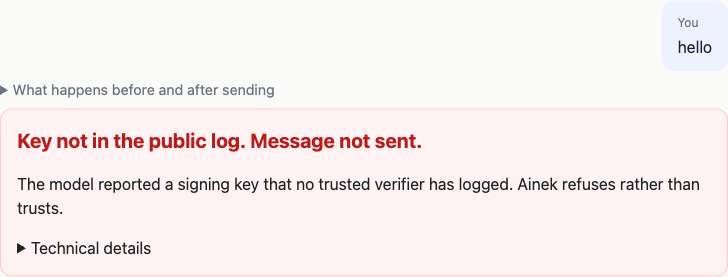
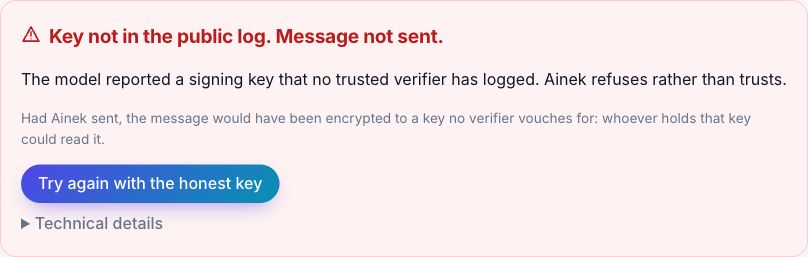
docs: re-shoot the README screenshots on the live log
Same four frames, new design, live key log with entry #3 (the
provider's second deployment); the auditor sample still matches
entry #0.

diff --git a/README.md b/README.md
@@ -3,8 +3,8 @@
 > **Status:** NEAR Hackathon submission (Nov 1–14, 2026). Tracks: Privacy & Private AI, AI Security & Defense,
 > Open Innovation, Social Money. Testnet only. Not audited. See [What we do not claim](#what-we-do-not-claim).
 >
-> **Done (Nov 4):** Tier 1 client, proof package, offline replay, auditor page; key-log contract live on testnet with entry #0.
-> **In progress:** `commit_proof`, the verifier daemon, Tier 2 (agent + policy in TDX).
+> **Done (Nov 5):** Tier 1 client, proof package, offline replay, auditor page; key-log contract v2 live on testnet with `commit_proof`; verifier daemon wrote its first entry (#3).
+> **In progress:** the verifier daemon as a hosted service (today it ran once, by hand), Tier 2 (agent + policy in TDX).
 
 Ainek is a chat with a private model plus a proof you can check yourself. Before anything is sent, the model's signing key is
 checked against a **public, append-only key log in a NEAR contract** that verifiers write to (today: one verifier, ours); the
@@ -28,10 +28,12 @@ measurements to an approved allowlist"; Brave, built on NEAR AI, wrote on Oct 15
   A verifier logs a key only after checking the Intel TDX quote and the NVIDIA GPU evidence, and the client re-verifies the
   evidence itself as well, so the log is a second opinion, not the only one. If two trusted verifiers disagree on a model,
   you see a split view, not an average. Today: one verifier, ours; entry #0 was logged by hand from a report our code
-  verified with the SDK (its NVIDIA verdict hash was not recorded); the daemon is in progress.
+  verified with the SDK); entries #1 and #2 are re-logs of that same recording by a stopgap script (same nonce and report
+  hash); entry #3 is the first one written by the verifier daemon from a fresh attestation. No entry records the NVIDIA
+  verdict hash yet (the SDK's GPU verifier does not return it).
 - **Did this answer come from there?** The enclave signs `sha256(request)` and `sha256(response)`. Ainek keeps the exact
-  bytes, recomputes both hashes and checks the signature against the logged key. A salted hash of the proof will be committed
-  to NEAR (until `commit_proof` is deployed the commit stays in this browser). The salt and your copy of the exchange live
+  bytes, recomputes both hashes and checks the signature against the logged key. A salted hash of the proof is committed
+  to NEAR by your wallet (`commit_proof`, from storage your account prepays); until you connect one it stays in this browser. The salt and your copy of the exchange live
   only in this browser; disclosing to an auditor hands over one proof, its salt and the ciphertext bytes, never the plaintext.
 - **Did the agent do only what it was allowed to?** (Tier 2, in progress; a cap-check spike of the job exists.) The policy
   (whitelist, caps, approval threshold) is meant to run in an OutLayer job on Intel TDX that signs the decision with a key
@@ -50,6 +52,10 @@ measurements to an approved allowlist"; Brave, built on NEAR AI, wrote on Oct 15
 | ![The proof card: model, hardware, key in the public log, hashes, E2EE, on NEAR](docs/screenshots/proof-card.png) | ![Red card: key not in the public log, message not sent](docs/screenshots/refused.png) |
 | The public key log (`/log`) | A disclosure checked by an auditor (`/auditor`) |
 | ![The public key log page](docs/screenshots/log.png) | ![The auditor verdict card](docs/screenshots/auditor.png) |
+
+The card's compose hash is the one attested for this reply; it is shown, not compared with the matched entry (#3, whose
+compose differs: the provider answers from two deployments with the same signing key, and both composes are in the log).
+See "What we do not claim".
 
 ## How NEAR is used
 
@@ -102,7 +108,7 @@ pnpm -F web dev                  # keeps running, use a second terminal: http://
 
 With `pnpm -F web dev` running, at `http://localhost:3000`:
 
-1. **See the log:** `/log` → the live log for `z-ai/glm-5.3-flash` and the trust set and quorum the client applies (today: entries by `ainek-dev-dastan.testnet` on `ainek-log-dastan.testnet`). The client trusts entries no older than 24 h: when there is no fresh entry `/log` says so ("No entry younger than 24 hours"), and the chat then refuses by design. Until the verifier daemon runs, the log is refreshed by hand.
+1. **See the log:** `/log` → the live log for `z-ai/glm-5.3-flash` and the trust set and quorum the client applies (today: entries by `ainek-dev-dastan.testnet` on `ainek-log-dastan.testnet`). The client trusts entries no older than 24 h: when there is no fresh entry `/log` says so ("No entry younger than 24 hours"), and the chat then refuses by design. The verifier daemon refreshes the log (entry #3 was its first run); until it runs as a hosted service, a stopgap refreshes it by hand.
 2. **See fail-closed:** `pnpm demo:tamper`, or tick "swap the key" in the chat (`/?tamper=1`) → "Key not in the public log. Message not sent."
 3. **See the non-TEE route:** pick the Incognito model in the chat → red card "This answer went through a non-attested model" (gateway signature only; our server sees this route in plaintext, and the card says so).
 4. **Re-verify a proof yourself:** "Re-verify yourself" on a card, or paste `docs/samples/disclosure.sample.json` (or a card's "Disclose to auditor" file) into `/verify` → Verify → hashes recomputed in your browser, signature checked, log entry re-read from the public log. "NEAR AI Verification Center" shows the same signature on NEAR AI's own page. Uncommitted proofs get a commit button on the card and on `/verify?id=…` (needs a testnet wallet). Connecting adds the function-call key; an account that never prepaid storage then gets a "Prepay 0.1 NEAR for storage and commit" button (one wallet dialog, 50 to 68 commits, not withdrawable); after that the key commits without a dialog, and the row shows the transaction.
@@ -182,8 +188,8 @@ Known issues we inherited (and say so):
 
 ```
 browser ── E2EE via our relay ──▶ NEAR AI gateway (TEE) ──▶ model enclave (TDX + GPU): signs sha256(request), sha256(response)
-browser ── reads the key log; will commit a salted hash ──▶ NEAR contract (ainek-log-dastan.testnet)
-verifier(s) ── attestation report → SDK checks → KeyEntry ── log_key ──▶ NEAR contract        (daemon in progress)
+browser ── reads the key log; commits a salted hash (prepaid storage) ──▶ NEAR contract (ainek-log-dastan.testnet)
+verifier(s) ── attestation report → SDK checks → KeyEntry ── log_key ──▶ NEAR contract        (daemon: services/verifier)
 agent (function-call key) ──▶ OutLayer policy job (TDX) ── signed decision ──▶ contract: execute, or wait for Telegram approval
 stop button: DeleteKey + pause_agent                                                           (Tier 2, planned)
 ```
@@ -196,7 +202,7 @@ stop button: DeleteKey + pause_agent                                            
   verifier's claim, which is why the client re-verifies the evidence itself). The client decides whom to trust
   (`AINEK_TRUSTED_VERIFIERS`, `AINEK_QUORUM`).
 - Every attested exchange becomes a proof (`packages/proof`, SPEC §5): signature, hashes, log index, salt, commit. The commit
-  is `sha256(salt ‖ canonical_json(proof without salt/commit/commitTx))`, computed in the browser; the contract will store
+  is `sha256(salt ‖ canonical_json(proof without salt/commit/commitTx))`, computed in the browser; the contract stores
   only the commit. The Rust contract uses the same canonical JSON for the log's `entry_hash` (shared test vectors in
   `docs/test-vectors`).
 - Replay mode (`pnpm demo`) re-runs the SDK's own verification on recorded evidence: recorded Intel collateral, the recorded
@@ -213,16 +219,16 @@ stop button: DeleteKey + pause_agent                                            
 apps/web/            Next.js app: chat with the proof card, /verify, /log, /auditor, /trust; byte-exact relay to NEAR AI
 apps/demo/           Node 24 CLI: pnpm demo (offline replay), demo:tamper, demo:live, record / check-contract scripts
 packages/proof/      shared TS: proof schema, canonical JSON, hashing, signatures, fail-closed rule, chain checks, tests
-contracts/ainek/     Rust near-sdk-rs contract: key log (log_key, latest_keys, entry, entries_since, head);
-                     proof commits (SPEC §4.2) and Tier 2 (§4.3) next
+contracts/ainek/     Rust near-sdk-rs contract: key log (log_key, latest_keys, entry, entries_since, head), proof commits
+                     (commit_proof, proof_commit, deposit_storage, storage_balance_of; SPEC §4.2); Tier 2 (§4.3) next
 jobs/policy/         Rust OutLayer WASI-P1 job: spike, cap check only, no signature yet (Tier 2)
-services/verifier/   placeholder: the attestation → KeyEntry → log_key daemon is in progress
+services/verifier/   daemon: attestation report → SDK checks → KeyEntry → log_key (`pnpm -F verifier start`, Dockerfile)
 services/agent/      placeholder: NL → NEAR AI → OutLayer → contract (Tier 2, not started)
 docs/                SPEC.md (interfaces), CLAIMS.md, DEV-NOTES.md, samples/ (recorded evidence), test-vectors/
 ```
 
-Tests: `pnpm test` and `pnpm typecheck` (TypeScript, node:test); `cargo test` in `contracts/ainek` (unit tests + a
-`near-sandbox` integration test); `pnpm -F demo check-contract` checks the deployed contract's ABI against SPEC §4.1.
+Tests: `pnpm test` and `pnpm typecheck` (TypeScript, node:test: `packages/proof` and `services/verifier`); `cargo test` in
+`contracts/ainek` (unit tests + a `near-sandbox` integration test); `pnpm -F demo check-contract` checks the deployed contract's ABI against SPEC §4.1.
 
 ## Disclosures
 

diff --git a/docs/DEV-NOTES.md b/docs/DEV-NOTES.md
@@ -567,10 +567,12 @@ plaintext-маршрута только `send`. Фаза падения — чи
   словаря при рендере, чтобы переключение языка меняло и его. Одноразовые ошибки из обработчиков (`setError`)
   остаются на языке момента.
 - Фавикон: `app/icon.svg` (Next подхватывает файл сам; 404 на `/favicon.ico` в консоли пропал).
-- Скриншоты для README лежат в `docs/screenshots/` и сняты Playwright на ширине 820 px в EN: `proof-card.png` (живой
-  ответ glm-5.3-flash, запись #0 в логе), `refused.png` (`/?tamper=1`), `log.png`, `auditor.png` (файл-образец).
+- Скриншоты для README лежат в `docs/screenshots/` и сняты Playwright в EN на ширине 900 px (`/log`: 1000 px):
+  `proof-card.png` (живой ответ glm-5.3-flash, живая запись в логе), `refused.png` (`/?tamper=1`), `log.png`,
+  `auditor.png` (файл-образец).
   Пересъёмка после изменения карточки: `pnpm -F web dev`, открыть страницу, подождать пару секунд после появления
-  текста, спрятать `.composer` и убрать `nextjs-portal`, снять элемент `article.turn` (чат), `main.page` (`/log`)
+  текста, спрятать `.composer` и `.nav`, убрать `nextjs-portal`, снять элемент `article.turn` (чат, и для зелёной, и для красной
+  карточки скрыть `.bubble.user`, `details.steps` и сноску под кнопками), `main.page` (`/log`, ширина 1000 px, секция Wallet скрыта)
   или `section.card` (`/auditor`).
 
 ## 2026-11-04 — статус issue 1061 (подмена ключа ответа в E2EE) (Бектур)
@@ -639,8 +641,8 @@ plaintext-маршрута только `send`. Фаза падения — чи
   предупреждения, результат на `/verify` и `/auditor` использует ту же шапку через `CardHead status="ok|fail"`.
 - Таблицы обёрнуты в `.table-wrap` (скругление, тень), заголовки капителью. `StackTable` делает обёртку сам.
 - Поле JSON на `/verify` и `/auditor` принимает перетаскивание файла (`JsonTextarea`, класс `drop` на время наведения).
-- Скриншоты в `docs/screenshots/` пока от старого вида; переснять, когда вернётся живая запись в логе
-  (в режиме sample на карточке стоит пометка «sample entry»).
+- Скриншоты в `docs/screenshots/` пересняты 2026-11-05 на живом логе (запись #3) в новом виде; в `auditor.png`
+  файл-образец сходится с записью #0, в `log.png` три записи в окне. Рецепт в разделе от 2026-11-04 выше.
 
 ## 2026-11-05 — красная карточка с последствием и повтором, инструкция по хостингу (Бектур)
 
